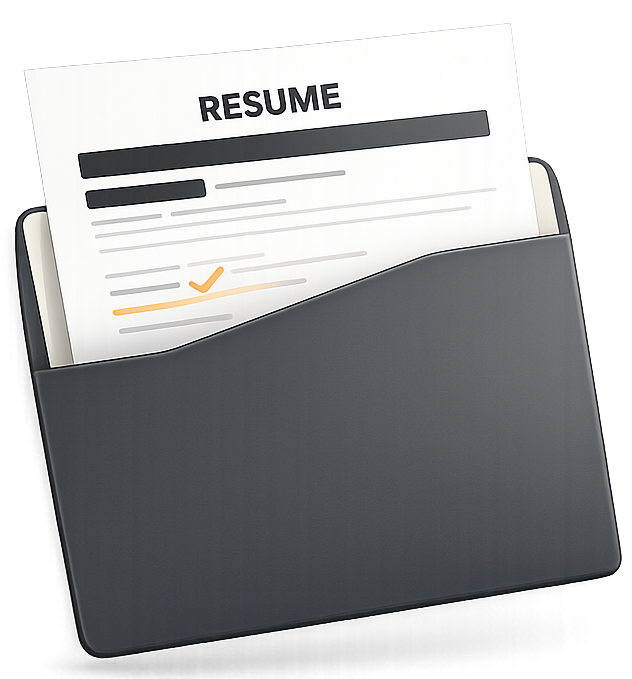
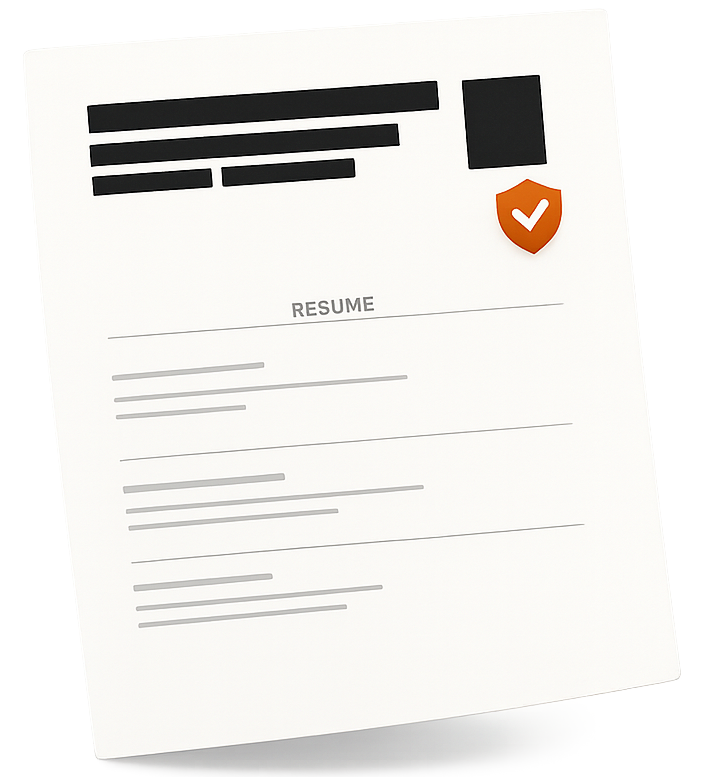
Fix admin user deletion cleanup

diff --git a/app/api/admin/users/[id]/action/route.ts b/app/api/admin/users/[id]/action/route.ts
@@ -49,6 +49,22 @@ async function removeStorageObjects(
 	return uniquePaths.length;
 }
 
+async function deleteRowsByColumn(
+	admin: SupabaseClient,
+	table: string,
+	column: string,
+	value: string,
+) {
+	const { count, error } = await admin
+		.from(table)
+		.delete({ count: "exact" })
+		.eq(column, value);
+
+	if (error) throw new Error(`${table}: ${error.message}`);
+
+	return count ?? 0;
+}
+
 async function getPayload(request: Request) {
 	try {
 		return await request.json();
@@ -179,6 +195,81 @@ export async function POST(request: Request, context: RouteContext) {
 					}
 				}
 
+				const cleanupCounts = {
+					activeSessions: await deleteRowsByColumn(
+						admin,
+						"active_user_sessions",
+						"user_id",
+						profileId,
+					),
+					contentReportsFiled: await deleteRowsByColumn(
+						admin,
+						"content_reports",
+						"reporter_id",
+						profileId,
+					),
+					notificationPreferences: await deleteRowsByColumn(
+						admin,
+						"notification_preferences",
+						"user_id",
+						profileId,
+					),
+					onboarding: await deleteRowsByColumn(
+						admin,
+						"profile_onboarding",
+						"user_id",
+						profileId,
+					),
+					presenceSessions: await deleteRowsByColumn(
+						admin,
+						"app_presence_sessions",
+						"user_id",
+						profileId,
+					),
+					pushSubscriptions: await deleteRowsByColumn(
+						admin,
+						"push_subscriptions",
+						"user_id",
+						profileId,
+					),
+					resumeReads: await deleteRowsByColumn(
+						admin,
+						"resume_reads",
+						"reader_id",
+						profileId,
+					),
+					reviewerApplications: await deleteRowsByColumn(
+						admin,
+						"reviewer_applications",
+						"user_id",
+						profileId,
+					),
+					reviews: await deleteRowsByColumn(
+						admin,
+						"roasts",
+						"author_id",
+						profileId,
+					),
+					savedResumes: await deleteRowsByColumn(
+						admin,
+						"saved_resumes",
+						"user_id",
+						profileId,
+					),
+					submittedResumes: await deleteRowsByColumn(
+						admin,
+						"resumes",
+						"user_id",
+						profileId,
+					),
+					votes: await deleteRowsByColumn(
+						admin,
+						"votes",
+						"voter_id",
+						profileId,
+					),
+				};
+
 				const deleteAuthUser = await admin.auth.admin.deleteUser(profileId);
 				if (deleteAuthUser.error) throw new Error(deleteAuthUser.error.message);
 
@@ -193,6 +284,7 @@ export async function POST(request: Request, context: RouteContext) {
 								commentMedia: removedCommentFiles,
 								resumes: removedResumeFiles,
 							},
+							removed_table_rows: cleanupCounts,
 						},
 					})
 					.eq("id", logResult.data.id);

diff --git a/docs/copyright-takedown-policy.html b/docs/copyright-takedown-policy.html
@@ -77,7 +77,7 @@
 </head>
 <body>
   <h1>Copyright and Takedown Policy</h1>
-  <p class="meta">Last updated: May 30, 2026 &nbsp;|&nbsp; Applies to: Linted at https://linted-space.vercel.app</p>
+  <p class="meta">Last updated: May 30, 2026 &nbsp;|&nbsp; Applies to: Linted at https://linted.space</p>
 
   <p class="notice">
     Linted respects intellectual property rights and expects users to do the same. This policy explains how to report content that you believe infringes copyright, how affected users may respond, and how we handle repeat infringement.
@@ -85,7 +85,7 @@
 
   <section>
     <h2>1. Who We Are</h2>
-    <p>Linted is operated by Bathina Shajith. The Service is available at <a href="https://linted-space.vercel.app">https://linted-space.vercel.app</a>. Copyright and takedown requests can be sent to <a href="mailto:shajith240@gmail.com">shajith240@gmail.com</a>.</p>
+    <p>Linted is operated by Bathina Shajith. The Service is available at <a href="https://linted.space">https://linted.space</a>. Copyright and takedown requests can be sent to <a href="mailto:shajith240@gmail.com">shajith240@gmail.com</a>.</p>
     <p>This contact is for copyright and intellectual property complaints. For privacy, safety, harassment, or account issues, please also review our Privacy Policy and Community Guidelines.</p>
   </section>
 

diff --git a/docs/privacy-policy.html b/docs/privacy-policy.html
@@ -78,7 +78,7 @@
 </head>
 <body>
   <h1>Privacy Policy</h1>
-  <p class="meta">Last updated: May 30, 2026 &nbsp;|&nbsp; Applies to: Linted at https://linted-space.vercel.app</p>
+  <p class="meta">Last updated: May 30, 2026 &nbsp;|&nbsp; Applies to: Linted at https://linted.space</p>
 
   <p class="notice">
     Linted is a resume review and feedback platform. Because resumes can contain personal information, this policy explains what we collect, what may become public, how we use information, and how users can request access, correction, or deletion.
@@ -292,7 +292,7 @@
     <p>If you have questions, requests, or concerns about this Privacy Policy, contact us:</p>
     <ul>
       <li>Email: <a href="mailto:shajith240@gmail.com">shajith240@gmail.com</a></li>
-      <li>Website: <a href="https://linted-space.vercel.app">https://linted-space.vercel.app</a></li>
+      <li>Website: <a href="https://linted.space">https://linted.space</a></li>
       <li>Operator: Bathina Shajith, operating as Linted</li>
       <li>Mailing address: Not publicly listed. Please contact us by email for legal or privacy notices.</li>
     </ul>

diff --git a/docs/terms-of-service.html b/docs/terms-of-service.html
@@ -77,7 +77,7 @@
 </head>
 <body>
   <h1>Terms of Service</h1>
-  <p class="meta">Last updated: May 30, 2026 &nbsp;|&nbsp; Applies to: Linted at https://linted-space.vercel.app</p>
+  <p class="meta">Last updated: May 30, 2026 &nbsp;|&nbsp; Applies to: Linted at https://linted.space</p>
 
   <p class="notice">
     These Terms explain the rules for using Linted. Linted is a resume review community, not a hiring agency, employer, recruiter, legal adviser, or guaranteed job-placement service.
@@ -214,7 +214,7 @@
     <h2>22. Contact</h2>
     <ul>
       <li>Email: <a href="mailto:shajith240@gmail.com">shajith240@gmail.com</a></li>
-      <li>Website: <a href="https://linted-space.vercel.app">https://linted-space.vercel.app</a></li>
+      <li>Website: <a href="https://linted.space">https://linted.space</a></li>
       <li>Operator: Bathina Shajith, operating as Linted</li>
       <li>Mailing address: Not publicly listed. Please contact us by email for legal or policy notices.</li>
     </ul>

diff --git a/docs/community-guidelines.html b/docs/community-guidelines.html
@@ -77,7 +77,7 @@
 </head>
 <body>
   <h1>Community Guidelines</h1>
-  <p class="meta">Last updated: May 30, 2026 &nbsp;|&nbsp; Applies to: Linted at https://linted-space.vercel.app</p>
+  <p class="meta">Last updated: May 30, 2026 &nbsp;|&nbsp; Applies to: Linted at https://linted.space</p>
 
   <p class="notice">
     Linted exists so people can get sharper resume feedback without getting mocked, exposed, or misled. Be direct, useful, and humane. Critique the resume, not the person.

diff --git a/app/privacy/page.tsx b/app/privacy/page.tsx
@@ -8,7 +8,7 @@ export const metadata = {
 };
 
 const lastUpdated = "May 30, 2026";
-const websiteUrl = "https://linted-space.vercel.app";
+const websiteUrl = "https://linted.space";
 const contactEmail = "shajith240@gmail.com";
 
 export default function PrivacyPolicyPage() {

diff --git a/app/copyright/page.tsx b/app/copyright/page.tsx
@@ -10,7 +10,7 @@ export const metadata = {
 
 const lastUpdated = "May 30, 2026";
 const contactEmail = "shajith240@gmail.com";
-const siteUrl = "https://linted-space.vercel.app";
+const siteUrl = "https://linted.space";
 
 function Section({
 	children,

diff --git a/app/terms/page.tsx b/app/terms/page.tsx
@@ -8,7 +8,7 @@ export const metadata = {
 };
 
 const lastUpdated = "May 30, 2026";
-const websiteUrl = "https://linted-space.vercel.app";
+const websiteUrl = "https://linted.space";
 const contactEmail = "shajith240@gmail.com";
 
 function Section({
